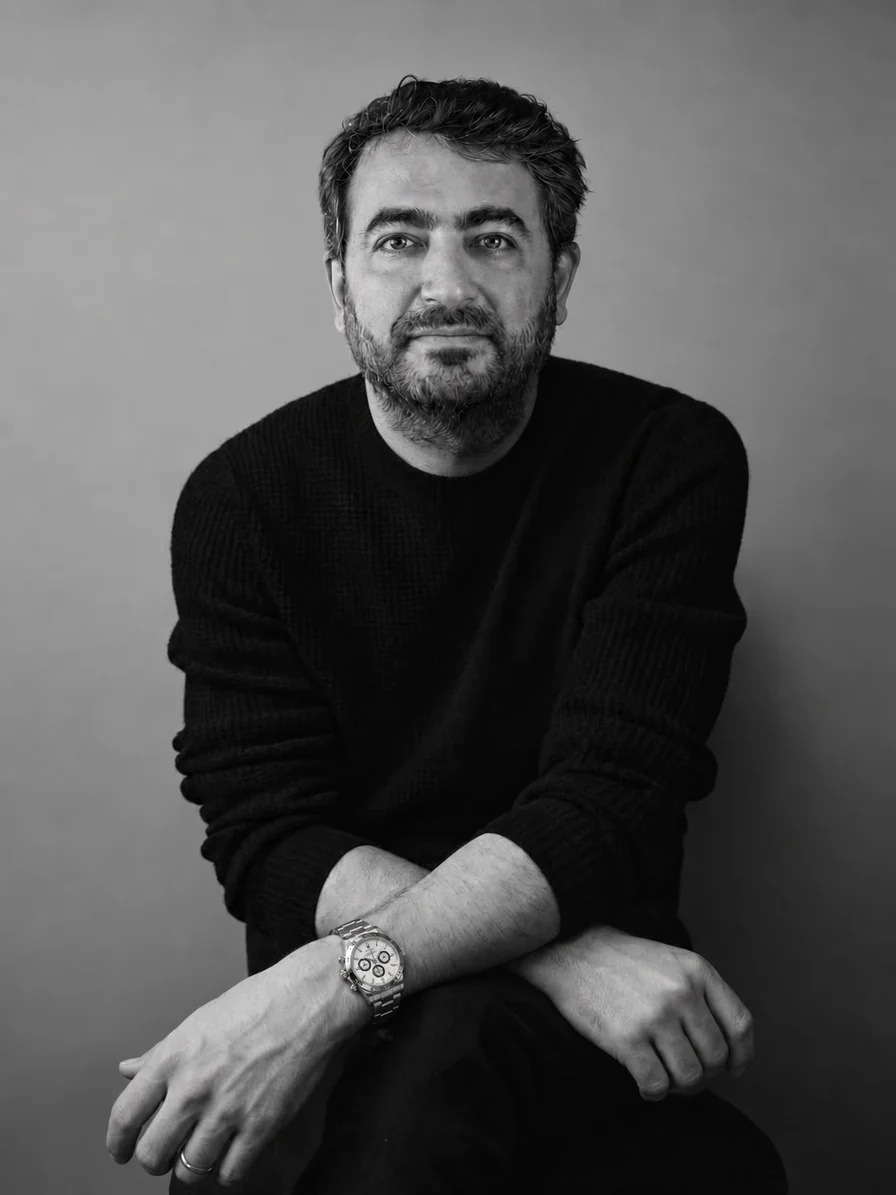
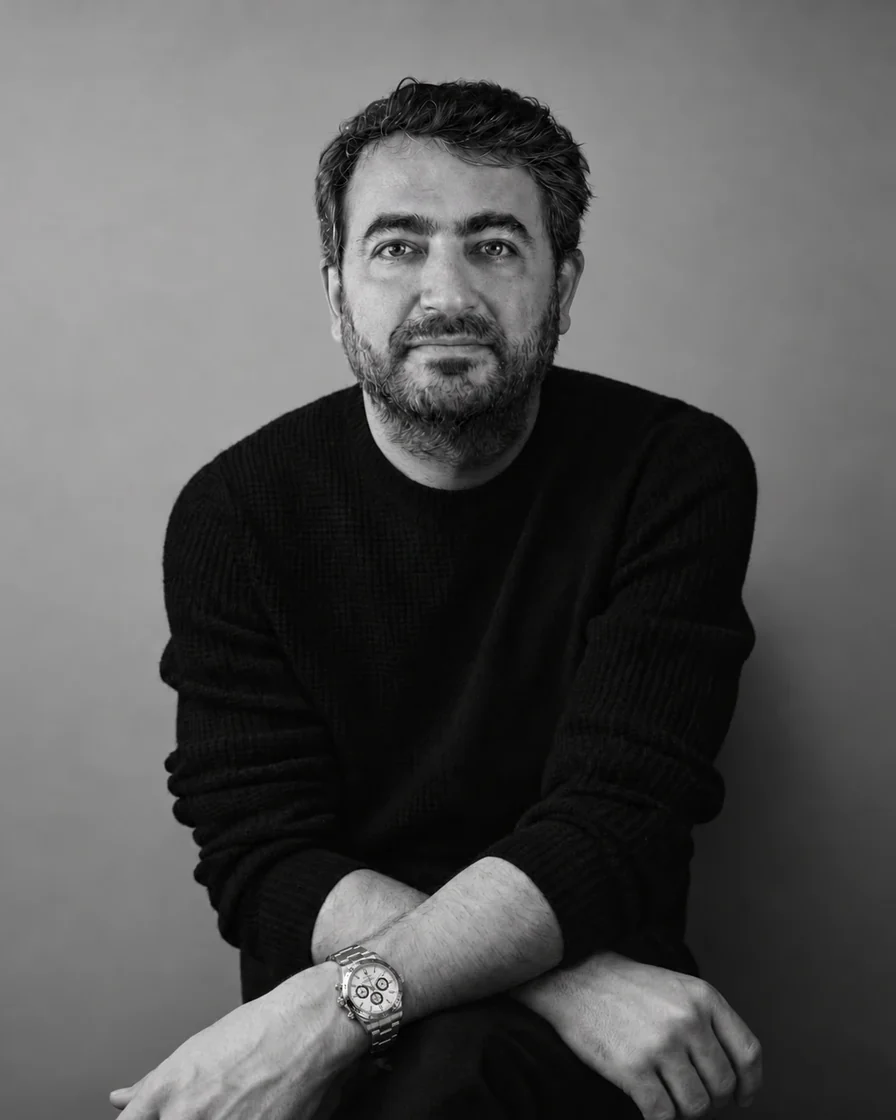
Crop the portrait at the bottom
Cut at 1320px of the original 1448: clear of the watch, which ends
around 1200, and clear of the second hand, which ends around 1300.
The width comes in with it so the file stays 4:5 and the browser
crops nothing further. The face gains about a tenth of the frame.

Claude-Session: https://claude.ai/code/session_01UGyFkf2EUWoDFuppqv98S6

Changed region(s): [[0.125, 0.0625, 0.875, 1.0]]

diff --git a/index.html b/index.html
@@ -236,7 +236,7 @@
 
   <section class="shell about" id="about">
     <div class="photo photo--about">
-      <img src="assets/img/charbel-basbous.webp" width="896" height="1195" alt="Portrait of Charbel Basbous" loading="lazy">
+      <img src="assets/img/charbel-basbous.webp" width="896" height="1120" alt="Portrait of Charbel Basbous" loading="lazy">
     </div>
     <div class="about__copy">
       <p class="kicker">About</p>
